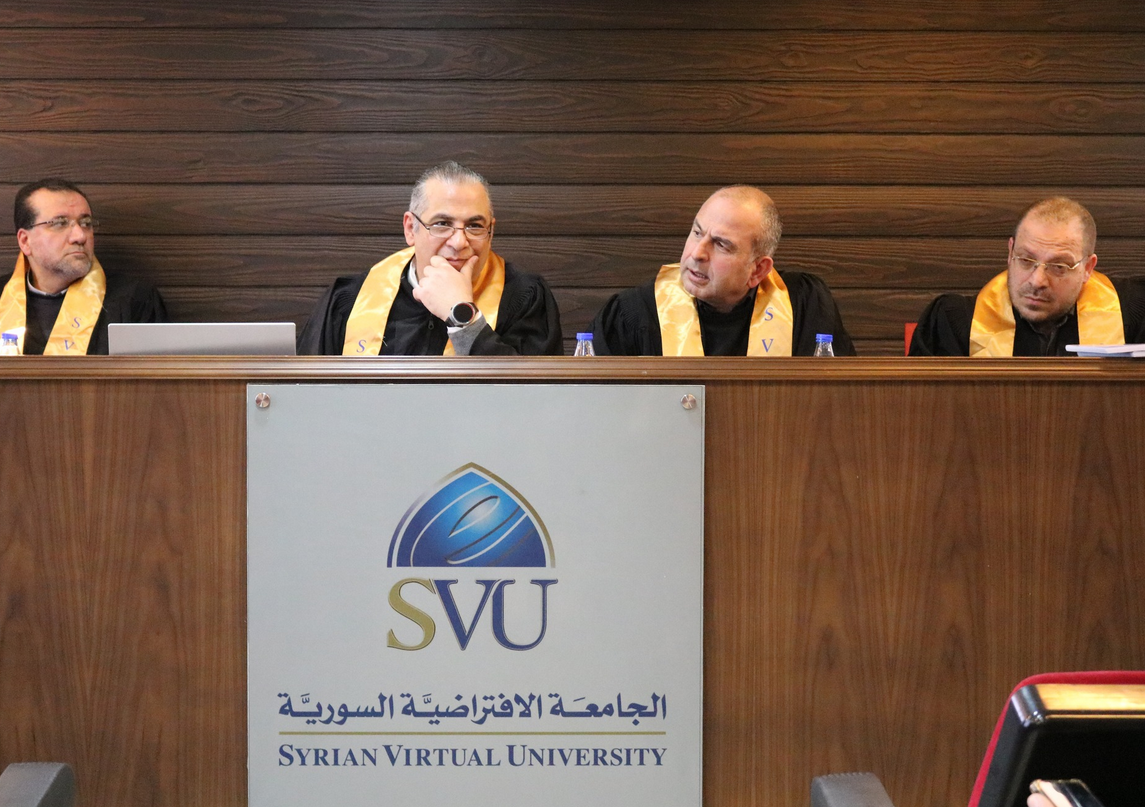
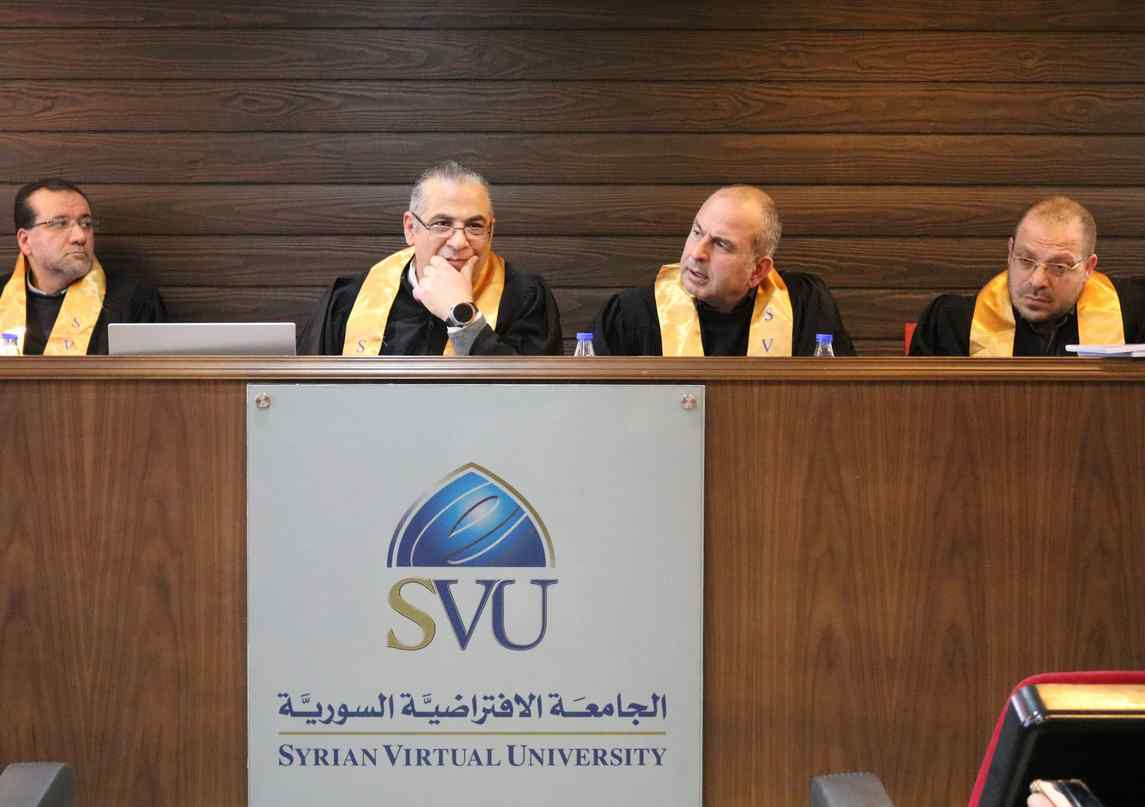
Delete all Imgs and replace by compress imgs for optimaizing the UX

diff --git a/index.html b/index.html
@@ -181,7 +181,7 @@
               "
             >
               <img
-                src="assets/img/SVUEG_Logo1.png"
+                src="assets/img/SVUEG_Logo.webp"
                 alt="شعار الجامعة"
                 style="width: 50px"
               />
@@ -221,7 +221,7 @@
       <section class="hero-fixed-section">
         <div class="hero-content-wrapper">
           <img
-            src="assets/img/SVUEG_MainLogo.png"
+            src="assets/img/SVUEG_MainLogo.jpg"
             alt="شعار الجامعة"
             class="hero-logo-img"
           />
@@ -291,7 +291,7 @@
             <div class="row text-center mt-3">
               <div class="col-md-4">
                 <img
-                  src="assets/img/partners/mohammad_muaaz_288153.png"
+                  src="assets/img/partners/mohammad_muaaz_288153.jpg"
                   alt="mohammad_muaaz img"
                   class="team-img"
                 />
@@ -372,7 +372,7 @@
 
                <div class="col-md-4">
                 <img
-                  src="assets/img/partners/unknown.png"
+                  src="assets/img/partners/unknown.jpg"
                   alt="farah img"
                   class="team-img"
                 />
@@ -402,7 +402,7 @@
         <div class="row">
           <div class="col-md-4">
             <img
-              src="./assets/img/SVUEG_Logo.png"
+              src="./assets/img/SVUEG_Logo.webp"
               alt="SVUEG_Logo"
               style="height: 100px; border-radius: 20%; margin-bottom: 20px;"
             />

diff --git a/about.html b/about.html
@@ -37,7 +37,7 @@
               "
             >
               <img
-                src="assets/img/SVUEG_Logo1.png"
+                src="assets/img/SVUEG_Logo.webp"
                 alt="شعار الجامعة"
                 style="width: 50px"
               />
@@ -84,7 +84,7 @@
         "
       >
         <img
-          src="./assets/img/SVUEG_Logo1.png"
+          src="./assets/img/SVUEG_Logo.webp"
           alt="SVUEG Logo"
           style="height: 180px"
         />
@@ -145,7 +145,7 @@
         <div class="row text-center mt-3">
           <div class="col-md-4">
             <img
-              src="assets/img/partners/mohammad_muaaz_288153.png"
+              src="assets/img/partners/mohammad_muaaz_288153.jpg"
               alt="mohammad_muaaz img"
               class="team-img"
             />
@@ -225,7 +225,7 @@
 
           <div class="col-md-4">
             <img
-              src="assets/img/partners/unknown.png"
+              src="assets/img/partners/unknown.jpg"
               alt="farah img"
               class="team-img"
             />
@@ -262,7 +262,7 @@
         <div class="row">
           <div class="col-md-4">
             <img
-              src="./assets/img/SVUEG_Logo.png"
+              src="./assets/img/SVUEG_Logo.webp"
               alt="SVUEG_Logo1"
               style="height: 100px; border-radius: 20%; margin-bottom: 20px;"
             />

diff --git a/contact.html b/contact.html
@@ -36,7 +36,7 @@
               "
             >
               <img
-                src="assets/img/SVUEG_Logo1.png"
+                src="assets/img/SVUEG_Logo.webp"
                 alt="شعار الجامعة"
                 style="width: 50px"
               />
@@ -83,7 +83,7 @@
         "
       >
         <img
-          src="./assets/img/SVUEG_Logo1.png"
+          src="./assets/img/SVUEG_Logo.webp"
           alt="SVUEG Logo"
           style="height: 180px"
         />
@@ -163,7 +163,7 @@
         <div class="row">
           <div class="col-md-4">
             <img
-              src="./assets/img/SVUEG_Logo.png"
+              src="./assets/img/SVUEG_Logo.webp"
               alt="SVUEG_Logo1"
               style="height: 100px; border-radius: 20%; margin-bottom: 20px;"
             />

diff --git a/assets/js/main.js b/assets/js/main.js
@@ -18,7 +18,7 @@ let eventsData = [
     date: "2026-05-20",
     category: "تكنولوجيا",
     city: "حلب",
-    image: "ai-conf.jpg",
+    image: "ai-conf.webp",
     featured: true,
     description:
       "انضم إلى أبرز خبراء الذكاء الاصطناعي في المنطقة لاكتشاف أحدث تطبيقات التعلم الآلي والتعلم العميق في مجال التعليم. سنناقش مستقبل التعليم التفاعلي، أدوات الذكاء الاصطناعي التوليدي، وكيف يمكن للتقنيات الحديثة أن تحدث ثورة في طرق التدريس والتعلم. جلسات نقاشية حية وتجارب عملية.",

diff --git a/event.html b/event.html
@@ -142,7 +142,7 @@
               "
             >
               <img
-                src="assets/img/SVUEG_Logo1.png"
+                src="assets/img/SVUEG_Logo.webp"
                 alt="شعار الجامعة"
                 style="width: 50px"
               />
@@ -186,7 +186,7 @@
         <div class="row">
           <div class="col-md-4">
             <img
-              src="./assets/img/SVUEG_Logo.png"
+              src="./assets/img/SVUEG_Logo.webp"
               alt="SVUEG_Logo1"
               style="height: 100px; border-radius: 20%; margin-bottom: 20px;"
             />

diff --git a/events.html b/events.html
@@ -36,7 +36,7 @@
               "
             >
               <img
-                src="assets/img/SVUEG_Logo1.png"
+                src="assets/img/SVUEG_Logo.webp"
                 alt="شعار الجامعة"
                 style="width: 50px"
               />
@@ -107,7 +107,7 @@
         <div class="row">
           <div class="col-md-4">
             <img
-              src="./assets/img/SVUEG_Logo.png"
+              src="./assets/img/SVUEG_Logo.webp"
               alt="SVUEG_Logo1"
               style="height: 100px; border-radius: 20%; margin-bottom: 20px;"
             />
